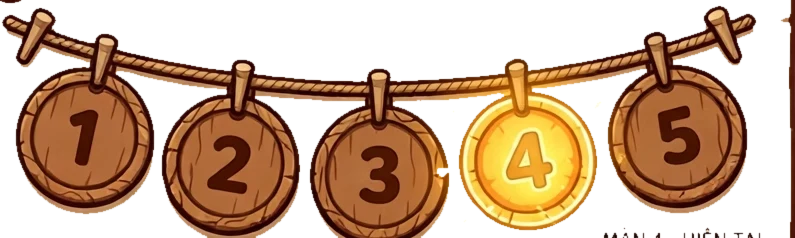
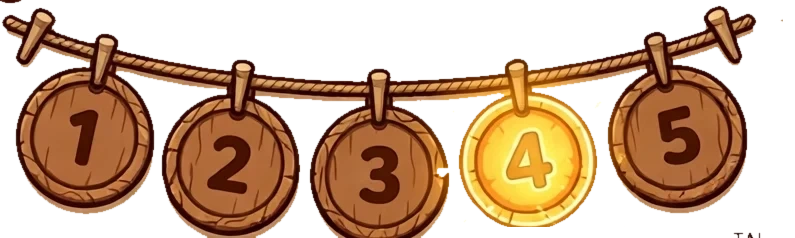
fix(cooking): day tien trinh can tam huy chuong that + don debris asset
Measured from the rope asset itself: the painted medallions sit
at 10.6/29.0/48.1/66.9/85.3% (numeral centroids), not the assumed
10/30/50/70/90 — the state rings and the stage-4 wooden cover
drifted further off-centre the further right they went, and the
cover floated inside the gilded disc. Wraps re-centred on the
painting, badge vertical centre set to the discs' 50.5%, the
cover now spans the whole disc (inset -21%) so stage 4 reads as a
plain wooden medallion until it activates. The asset also carried
source-drawing debris (text fragments under medallions 4-5 and a
strip on the right edge) — keyed transparent.

AI-assisted: Yes
AI-tool: Muse

Changed region(s): [[0.966, 0.0, 1.0, 1.0], [0.7547, 0.9706, 0.9057, 1.0], [0.634, 0.9412, 0.6943, 0.9706]]

diff --git a/src/pages/player/CookingPage.module.css b/src/pages/player/CookingPage.module.css
@@ -1041,3 +1041,21 @@
   font-size: 1.05rem;
   text-shadow: 0 1.5px 0 rgba(60, 35, 5, 0.6);
 }
+
+/* ---- Visual phase (audit #37, measured): the painted medallions
+   are NOT at 10/30/50/70/90 — their real centres in the rope asset
+   are 10.6/29.0/48.1/66.9/85.3% (numeral centroids). The wraps are
+   re-centred on the painting so state rings and the stage-4 cover
+   sit concentrically on the discs, and the cover now spans the
+   whole painted disc instead of floating inside it. ---- */
+.ropeBadgeWrap { width: 19%; }
+.ropeBadgeWrap:nth-child(1) { left: 1.1%; }
+.ropeBadgeWrap:nth-child(2) { left: 19.5%; }
+.ropeBadgeWrap:nth-child(3) { left: 38.6%; }
+.ropeBadgeWrap:nth-child(4) { left: 57.4%; }
+.ropeBadgeWrap:nth-child(5) { left: 75.8%; }
+.ropeBadgeWrap:nth-child(4) .ropeBadge:not(.ropeBadgeActive):not(.ropeBadgeDone)::after {
+  inset: -21%;
+  font-size: 1.5rem;
+}
+.ropeBadge { top: 50.5%; }
